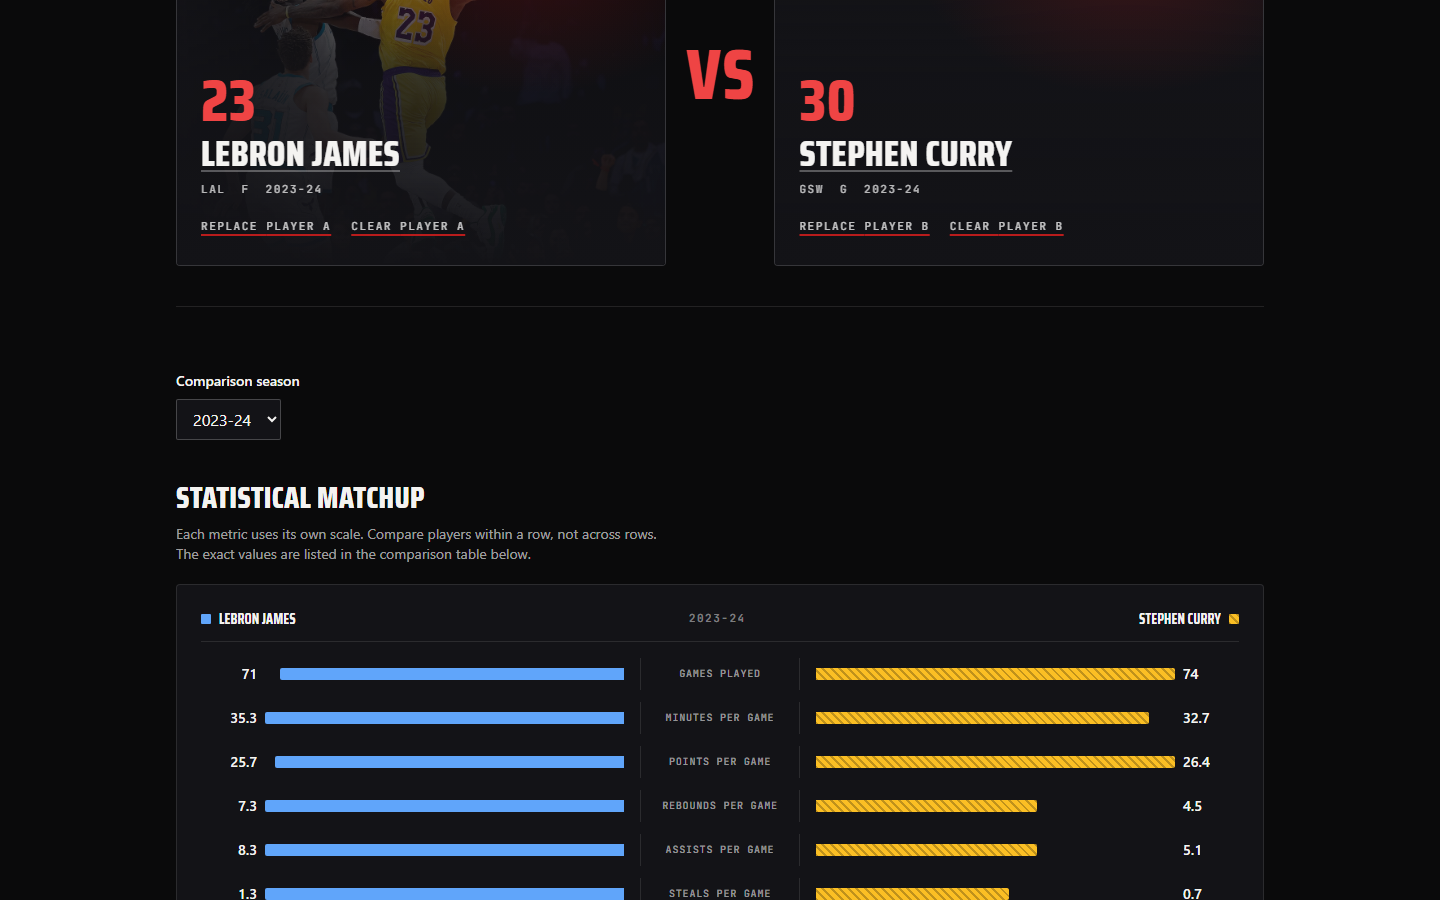
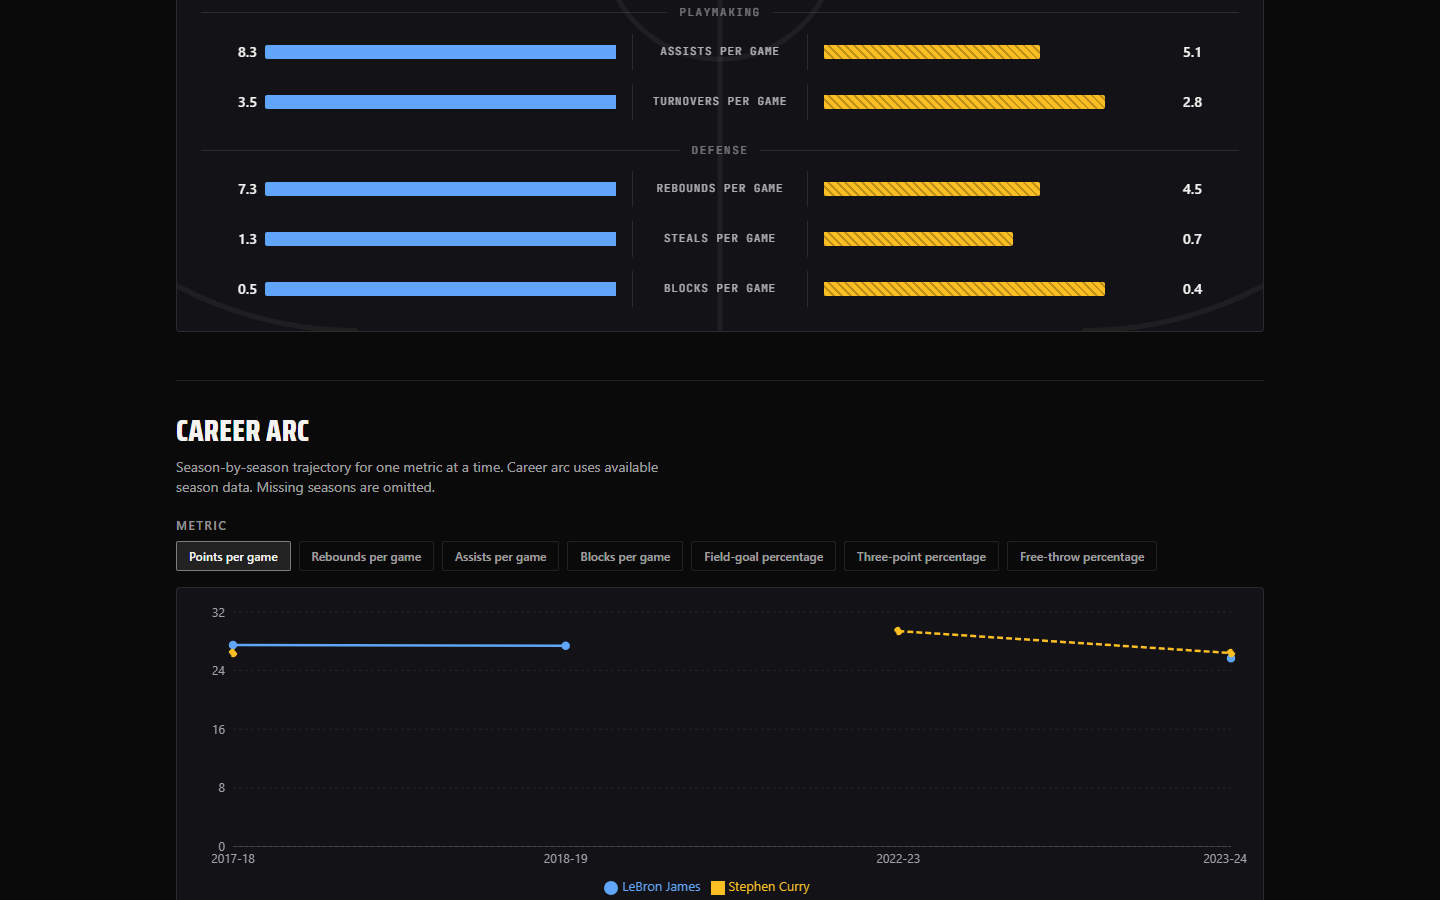
docs(readme): refresh comparison graph documentation

diff --git a/docs/PROJECT_STATE.md b/docs/PROJECT_STATE.md
@@ -3,14 +3,35 @@
 > This file is the live status of the project. It must be updated after every completed
 > task. Coding agents read this to understand where things stand before starting work.
 
-_Last updated: 2026-07-03_
+_Last updated: 2026-07-04_
 
 ## Current State
 
-- **Current milestone:** Post-release visual enhancement: NBA branding, player imagery, and comparison graph (complete, merged, and deployed)
-- **Current task:** None - the branding, player-imagery, and comparison-graph enhancement is merged to `main` and live in production
-- **Current branch:** `main`
-- **Current status:** The dark broadcast-editorial redesign (Visual Redesign 2) is complete, merged to
+- **Current milestone:** Comparison-page polish: detailed-table disclosure and career-arc trend chart (implemented on a branch, local only)
+- **Current task:** Reduce comparison-page visual redundancy (collapse the detailed table into a disclosure; group and refine the statistical-matchup graph) and add a season-by-season career-arc trend chart (ADR-023) - implemented, validated, and committed on the branch, not pushed
+- **Current branch:** `feature/comparison-graph-polish-career-arc`
+- **Current status:** A final, separately scoped comparison-page polish is now implemented on
+  `feature/comparison-graph-polish-career-arc` (branched from `main` at `b4781e1`, local only, not
+  pushed). It reduces the visual redundancy between the statistical-matchup graph and the detailed table
+  by collapsing the exact-value table into an accessible button disclosure below the visuals (the table
+  keeps its caption, row and column headers, scope attributes, selected-season context, and named
+  keyboard-focusable scroll region, and the matchup graph stays visible by default); refines the matchup
+  graph with four labelled metric groups (Availability, Scoring, Playmaking, Defense), more spacing, and a
+  faint half-court motif, with the eleven values, formatters, independent per-row scaling, blue and amber
+  non-colour-only series, and no-winner neutrality all unchanged; and adds a supplementary "Career arc"
+  chart that plots one selected metric season-by-season for both players as two equal-weight blue and amber
+  lines, reusing the existing career-trends query for both players (no new endpoint, contract, or
+  dependency), omitting missing seasons without bridging gaps, with a compact keyboard-accessible metric
+  selector in local UI state (the shareable comparison URL is untouched), an aria-hidden chart plus an
+  accessible summary, and no winner, ranking, or aggregate. The README comparison screenshot is refreshed
+  to show the grouped matchup and the career-arc chart. Validation passes with 190 frontend tests, 244
+  backend tests, and 434 total; the known non-blocking Recharts/Vite chunk-size warning remains. No
+  backend, shared contracts, `render.yaml`, environment behaviour, routes, search or combobox behaviour,
+  season selection or reconciliation, comparison URL / duplicate / common-season logic, statistics, number
+  formatters, game-log data, existing career-chart logic, or the player-image registry changed; the
+  direction is recorded in ADR-023. This branch is not pushed; pushing, a pull request, merging, and
+  deployment are deferred until explicitly requested. The two prior enhancements remain live on `main`:
+  the dark broadcast-editorial redesign (Visual Redesign 2) is complete, merged to
   `main` (merge commit `a0ce49f228f564910ccc253a48215f481fb18485`), and deployed and verified in
   production at `https://nba-performance-explorer.onrender.com` over the live NBA.com provider; that
   work is recorded below. A separately scoped visual enhancement is now merged to `main` and deployed to
@@ -331,8 +352,12 @@ the Stage D branch passed with:
 
 ## Immediate Next Action
 
-No required work remains for this enhancement. Future changes should be handled as a new, separately
-scoped maintenance or feature task.
+The comparison-page polish (detailed-table disclosure, grouped and refined statistical-matchup graph, and
+the new career-arc trend chart, ADR-023) is implemented, validated (190 frontend, 244 backend, 434 total;
+all builds passing; the known non-blocking Recharts/Vite chunk-size warning remains), and committed on
+`feature/comparison-graph-polish-career-arc`, which is local only. Awaiting review of the visual result.
+Pushing the branch, opening a pull request, merging to `main`, and the Render deployment are deferred until
+explicitly requested; the prior branding enhancement and dark redesign on `main` remain live in production.
 
 ## How To Update This File
 

diff --git a/docs/DECISIONS.md b/docs/DECISIONS.md
@@ -649,3 +649,55 @@ duplicate / common-season logic, or the existing profile fallback changed. Prove
 production licensing of the supplied NBA logo and player photography remain the project owner's
 responsibility; the non-affiliation notice and NBA.com attribution remain present. The known
 Recharts/Vite chunk-size warning remains non-blocking.
+
+---
+
+## ADR-023 - Comparison-page polish: detailed-table disclosure and a career-arc trend chart
+
+- **Status:** Accepted
+- **Date:** 2026-07-04
+
+**Context.** After the neutral statistical-matchup graph shipped (ADR-022), the comparison page repeated
+itself for sighted users: the detailed statistics table restated the same selected-season numbers the
+graph already showed, and there was no way to compare the two players over time. This is a final,
+separately scoped polish of the comparison page only; it does not redesign the page or add a second
+matchup summary.
+
+**Decision.**
+
+- **Detailed table moved into a disclosure.** The authoritative, exact-value comparison table is kept
+  unchanged (caption, row and column headers, scope attributes, selected-season context, and its named
+  keyboard-focusable horizontal scroll region) but is collapsed by default behind a button-controlled
+  disclosure (`aria-expanded` plus `aria-controls`, a `hidden`-toggled region) rendered below the graph
+  and the new chart. The statistical-matchup graph stays visible by default, so the page leads with the
+  visual and offers the exact numbers on demand. A button disclosure was chosen over native
+  `<details>/<summary>` because it exposes state cleanly and behaves deterministically in tests.
+- **Statistical-matchup graph refined.** The eleven metrics are unchanged in value, label, and formatter
+  but are organised into four labelled groups (Availability, Scoring, Playmaking, Defense) with more row
+  spacing, and a faint half-court motif sits behind the central axis. The independent per-row scaling, the
+  blue and amber data-visualisation series distinguished by side and hatch, the always-printed raw values,
+  the visible independent-scale note, the aria-hidden graphic, and the absence of any winner, ranking, or
+  aggregate are all preserved. The motif is decorative and static (so it needs no reduced-motion handling)
+  and never reduces bar or value legibility.
+- **Career-arc trend chart added.** A supplementary "Career arc" section plots one selected metric
+  season-by-season for both players as two equal-weight data-visualisation lines (blue and amber, never a
+  team colour and never the red UI accent), distinguished beyond colour by dash pattern and legend marker.
+  It reuses the existing player career-trends query (`usePlayerSeasonTrendsQuery`) for both players with no
+  new endpoint, contract, or dependency; merges the union of their seasons chronologically; omits seasons a
+  player has no data for and never bridges a gap; and offers a compact keyboard-accessible metric selector
+  (defaulting to points per game) held in local UI state so the shareable comparison URL is untouched. It
+  answers a different question from the selected-season matchup (trend over time, not a single season side
+  by side), renders only in the valid comparison success state with enough loaded career data, shows a
+  polished loading state, and otherwise shows a restrained unavailable message. The chart is decorative
+  (aria-hidden) with a concise accessible textual summary as its equivalent, and carries no winner,
+  ranking, or composite score.
+
+**Consequences.** The comparison page is less visually repetitive, leads with two complementary neutral
+visuals, and still exposes the exact authoritative table on demand with its semantics intact. No backend,
+shared contracts, `render.yaml`, environment behaviour, routes, search or combobox behaviour, season
+selection or reconciliation, comparison URL / duplicate / common-season logic, statistics, number
+formatters, game-log data, existing career-chart logic, or the player-image registry changed; the career
+data is read through the existing frontend query only, and no dependency was added. Validation covers the
+work with 190 frontend and 244 backend tests (434 total). The known Recharts/Vite chunk-size warning
+remains non-blocking. This branch is local only; pushing, a pull request, merging, and deployment are
+deferred until explicitly requested.

diff --git a/README.md b/README.md
@@ -32,8 +32,8 @@ LeBron James, 2023-24 season).
   </tr>
   <tr>
     <td width="50%">
-      <img src="docs/assets/player-comparison-desktop.png" alt="Two-player head-to-head, LeBron James versus Stephen Curry for the 2023-24 season: the VS identity panels above a mirrored, per-metric statistical matchup graph." width="100%" />
-      <br /><sub>Two-player comparison with a statistical matchup graph</sub>
+      <img src="docs/assets/player-comparison-desktop.png" alt="Two-player comparison of LeBron James and Stephen Curry: a grouped, mirrored statistical matchup graph above a season-by-season career-arc trend chart, with the exact-value table kept in a disclosure below." width="100%" />
+      <br /><sub>Comparison: grouped statistical matchup and career-arc trend</sub>
     </td>
     <td width="50%">
       <img src="docs/assets/home-mobile.png" alt="NBA Performance Explorer home page on a narrow mobile viewport: the NBA-branded masthead and a single-column hero." width="100%" />
